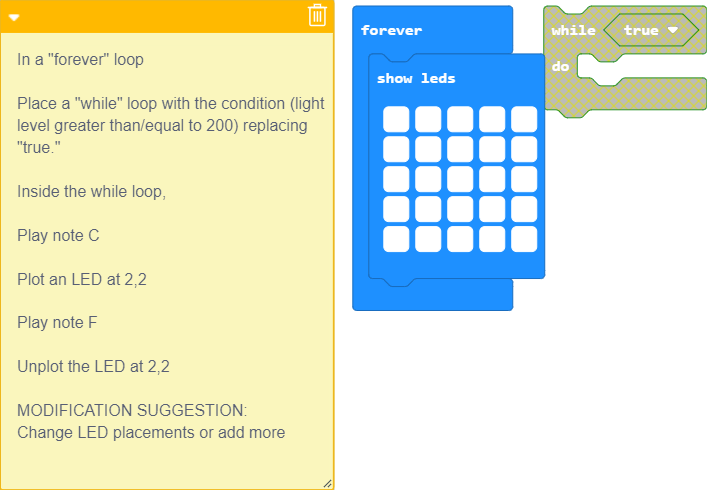
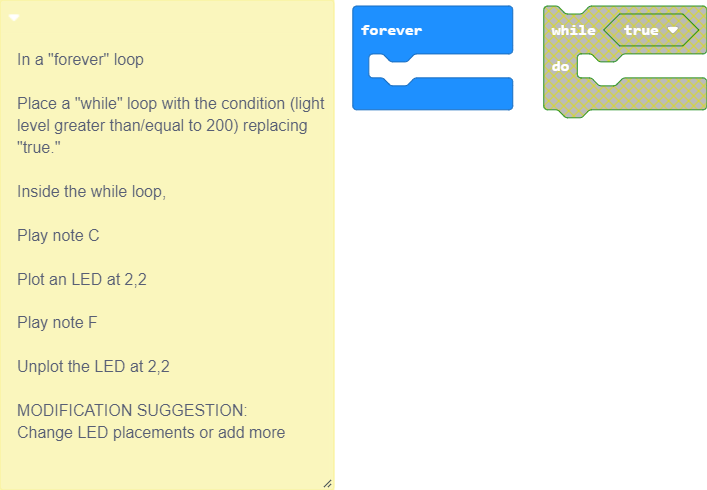
Update main.blocks, main.ts

Changed region(s): [[0.0, 0.0, 0.7779, 1.0], [0.0, 0.9796, 0.0311, 1.0]]

diff --git a/main.ts b/main.ts
@@ -18,11 +18,5 @@
  * Change LED placements or add more
  */
 basic.forever(function () {
-    basic.showLeds(`
-        # # # # #
-        # # # # #
-        # # # # #
-        # # # # #
-        # # # # #
-        `)
+	
 })
